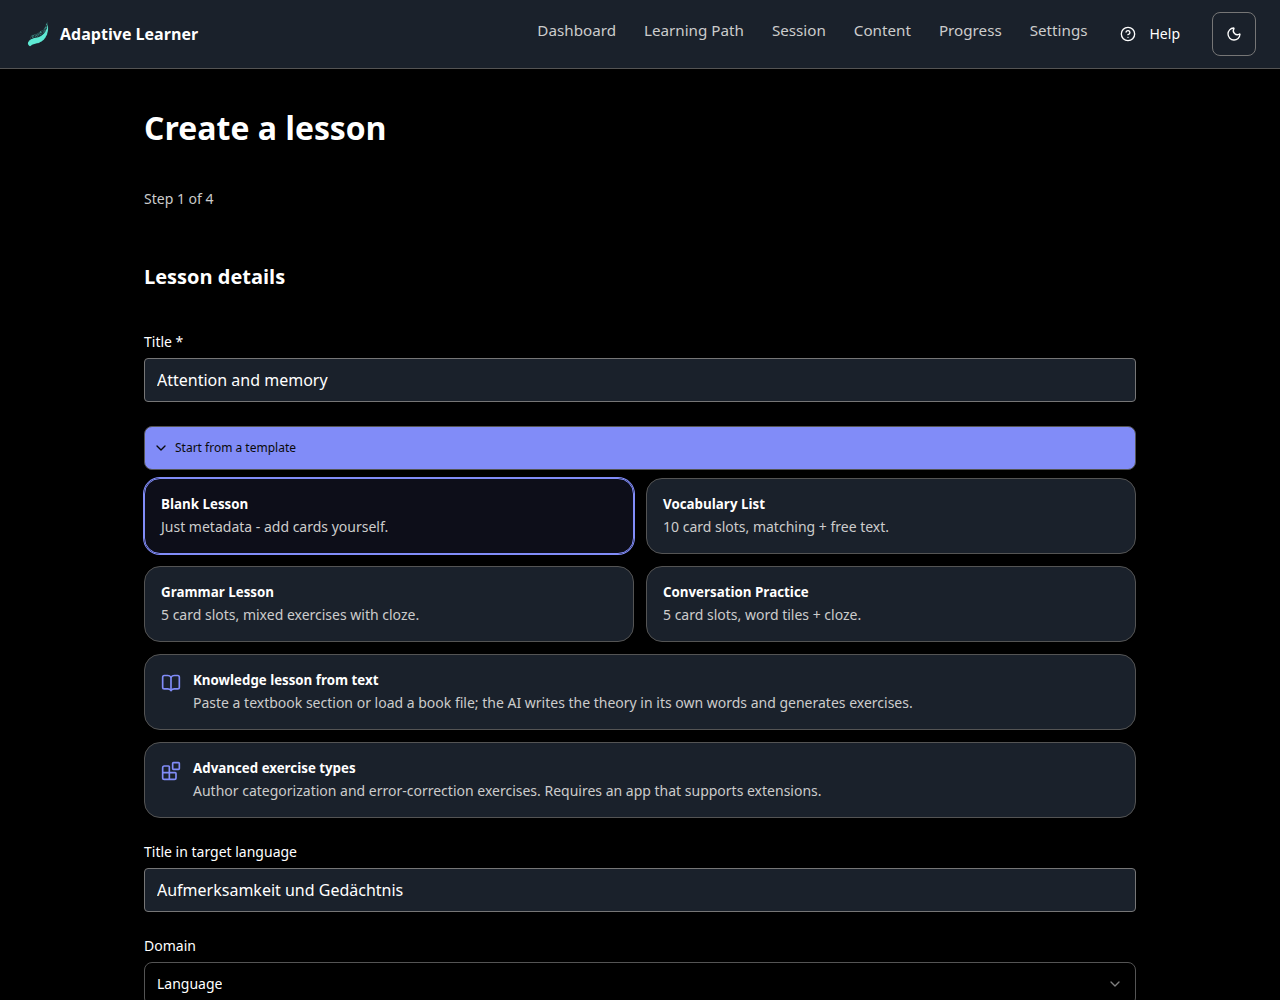
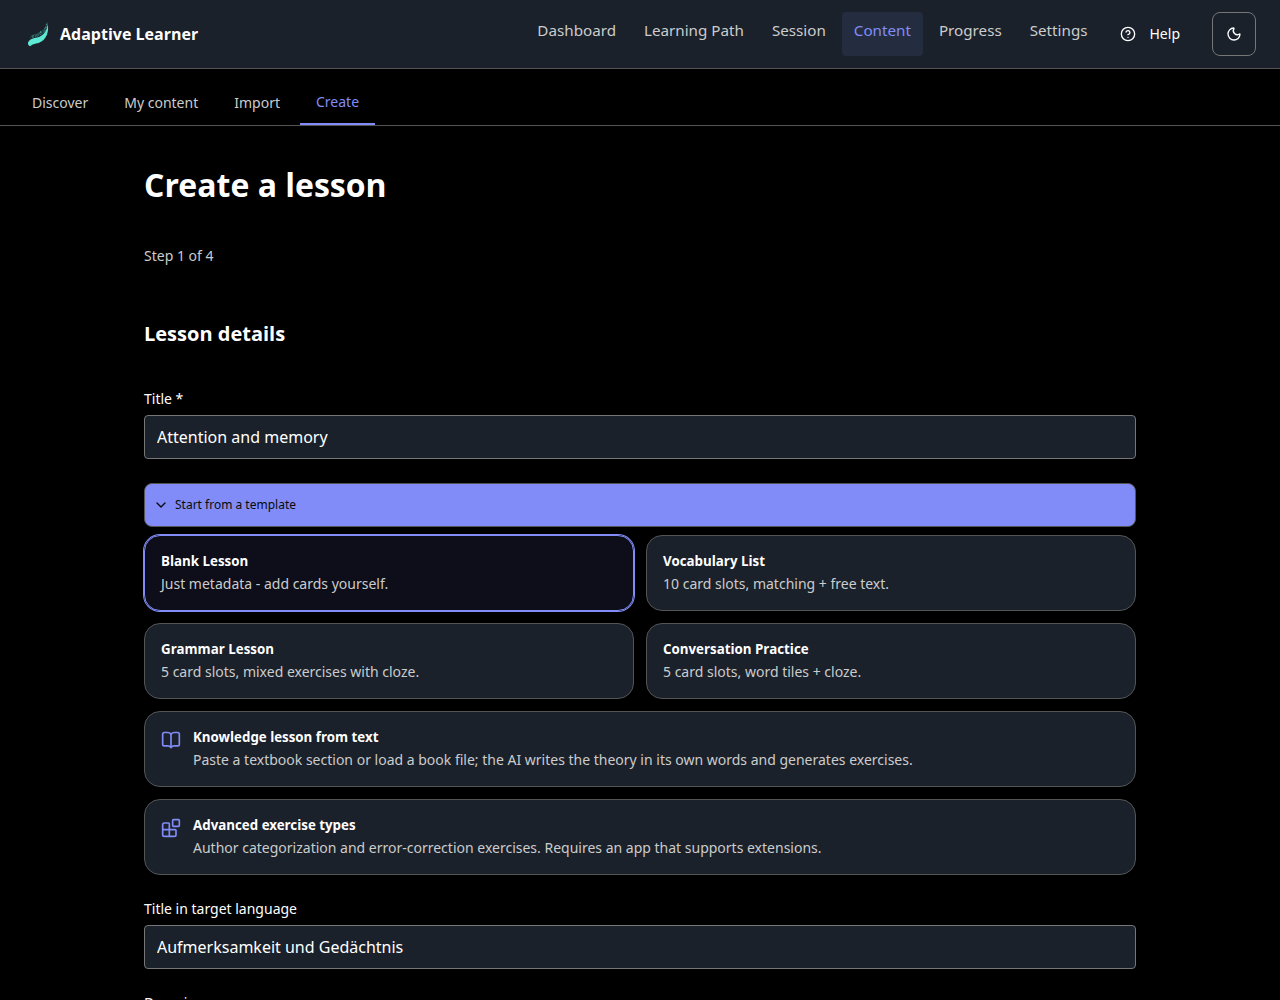
docs(blog): refresh the create-a-lesson screenshots and what they show (EN + DE)
The screenshots were regenerated with adaptive-learner at the 0.26.0 pin
after its blog spec derives the picker count from EXTENSION_WIZARD_TYPES
(adaptive-learner#3121), and every one was reviewed against its caption
before copying. The picker now shows all ten types. The shots also
surfaced app changes the article did not describe: the Content area's
sub-navigation (the creator is its Create tab), the book-text step's
exercise-type selection and optional generated explanations, and the
optional explanation field in every exercise editor, which made "three
fields, no more" false. Captions and prose follow what the pictures show,
with German UI labels taken from the app's de.json. The German assets were
still July's and are replaced as well; the German lead used "du" once
where the article says "Sie" everywhere else.

diff --git a/docs/blog/de/create-a-lesson-in-the-app.md b/docs/blog/de/create-a-lesson-in-the-app.md
@@ -7,7 +7,7 @@ tags: [tutorial, authoring, adaptive-learner, walkthrough]
 
 # Eine Lektion in der App erstellen, Schritt für Schritt
 
-*Eine praktische Tour durch den Lektions-Editor in adaptive-learner: die klassischen vier Assistenten-Schritte vom leeren Formular bis zur gespeicherten, schema-gültigen Lektion, der Buch-Pfad, der aus eingefügten oder hochgeladenen Lehrbuchkapiteln Wissens-Lektionen macht, der Erweiterungs-Pfad, der die sechs fortgeschrittenen Übungstypen ohne JSON autorierbar macht, und der Bearbeitungsmodus des Assistenten. Jeder Screenshot in dieser Anleitung stammt aus der laufenden App, aufgenommen während des exakt beschriebenen Ablaufs. Die App wird aktiv weiterentwickelt, ein Detail kann sich also bis zu deiner Lektüre verschoben haben: der Ablauf selbst bleibt der verlässliche Leitfaden.*
+*Eine praktische Tour durch den Lektions-Editor in adaptive-learner: die klassischen vier Assistenten-Schritte vom leeren Formular bis zur gespeicherten, schema-gültigen Lektion, der Buch-Pfad, der aus eingefügten oder hochgeladenen Lehrbuchkapiteln Wissens-Lektionen macht, der Erweiterungs-Pfad, der die sechs fortgeschrittenen Übungstypen ohne JSON autorierbar macht, und der Bearbeitungsmodus des Assistenten. Jeder Screenshot in dieser Anleitung stammt aus der laufenden App, aufgenommen während des exakt beschriebenen Ablaufs. Die App wird aktiv weiterentwickelt, ein Detail kann sich also bis zu Ihrer Lektüre verschoben haben: der Ablauf selbst bleibt der verlässliche Leitfaden.*
 
 `adaptive-learner` · für Lehrende und Content-Autoren · Teil 3 der Serie
 
@@ -15,7 +15,7 @@ Der [vorige Artikel](one-source-many-outputs.md) machte ein Versprechen: Sie mü
 
 ## Wo der Editor lebt
 
-Der Editor ist eine Seite in der App: Öffnen Sie `/create-lesson` (oder folgen Sie der Erstellen-Aktion im Inhalte-Bereich). Auf dem klassischen Pfad ist es ein vierstufiger Assistent, und die Schritte spiegeln genau wider, was eine Lektion im kanonischen Schema *ist*: Metadaten, Karten, Übungen und eine abschließende Überprüfung. Sie können in jedem Schritt zurückgehen; nichts wird gespeichert, bevor Sie es sagen. Drei weitere Türen führen in denselben Assistenten, und wir gehen jede nach dem klassischen Pfad durch: einen **Buch-Text-Pfad**, der aus einem eingefügten Lehrbuchkapitel eine Wissens-Lektion baut, einen **Erweiterungs-Pfad** für die fortgeschrittenen Übungstypen und einen **Bearbeitungsmodus**, der jede eigene Lektion wieder öffnet.
+Der Editor ist eine Seite in der App: Öffnen Sie `/create-lesson` oder den Reiter **Erstellen** im Inhalte-Bereich. Auf dem klassischen Pfad ist es ein vierstufiger Assistent, und die Schritte spiegeln genau wider, was eine Lektion im kanonischen Schema *ist*: Metadaten, Karten, Übungen und eine abschließende Überprüfung. Sie können in jedem Schritt zurückgehen; nichts wird gespeichert, bevor Sie es sagen. Drei weitere Türen führen in denselben Assistenten, und wir gehen jede nach dem klassischen Pfad durch: einen **Buch-Text-Pfad**, der aus einem eingefügten Lehrbuchkapitel eine Wissens-Lektion baut, einen **Erweiterungs-Pfad** für die fortgeschrittenen Übungstypen und einen **Bearbeitungsmodus**, der jede eigene Lektion wieder öffnet.
 
 ## Schritt 1: Lektionsdetails
 
@@ -99,9 +99,11 @@ Die vier Schritte oben setzen Vokabelkarten voraus. Der Assistent hat einen zwei
 
 ![Schritt 1 mit der Vorlagen-Reihe, einschließlich der neuen Karte "Wissens-Lektion aus Text"](assets/create-lesson/s5-template-book.png)
 
-Sie zu wählen schaltet den Assistenten auf einen kürzeren dreistufigen Ablauf um: Metadaten, Buchtext, Überprüfung. Der mittlere Schritt ist, wo die Arbeit passiert, und er nimmt den Text inzwischen auf zwei Wegen an. Der erste ist der ursprüngliche: Sie fügen **einen Abschnitt eines Lehrbuchs** ein (ein Kapitel ist die richtige Größe), fügen optional die Buchangabe hinzu und drücken **Theorie + Übungen generieren**:
+Sie zu wählen schaltet den Assistenten auf einen kürzeren dreistufigen Ablauf um: Metadaten, Buchtext, Überprüfung. Der mittlere Schritt ist, wo die Arbeit passiert, und er nimmt den Text inzwischen auf zwei Wegen an. Der erste ist der ursprüngliche: Sie fügen **einen Abschnitt eines Lehrbuchs** ein (ein Kapitel ist die richtige Größe), fügen optional die Buchangabe hinzu und drücken **Theorie + Übungen generieren**.
 
-![Der Buch-Text-Schritt: eingefügtes Kapitel, der Rechte-Hinweis, die Buchangabe-Felder und die Generieren-Schaltfläche](assets/create-lesson/s6-book-text.png)
+Über dem Textfeld legen Sie fest, was die KI bauen darf. Die fünf Standardtypen sind vorausgewählt; vier Erweiterungstypen, die allein aus Text entstehen können (Leseverständnis, Benotetes Quiz, Kategorisierung, Fehlerkorrektur), lassen sich dazuwählen; Bildauswahl, Bildbeschreibung und Diktat sind ausgegraut, weil sich Bilder und Audio nicht aus Text erzeugen lassen, und Sie ergänzen sie später im Editor. **Erklärungen generieren** ist optional: Es ergänzt jede Übung um eine Regel, eine Wort-für-Wort-Übersetzung und weitere Beispiele, die die lernende Person nach ihrer Antwort sieht, bei etwa einem Drittel bis der Hälfte mehr KI-Ausgabe pro Übung.
+
+![Der Buch-Text-Schritt: die zu erzeugenden Übungstypen, die Erklärungs-Option, das eingefügte Kapitel mit dem Rechte-Hinweis und die Buchangabe](assets/create-lesson/s6-book-text.png)
 
 Der zweite Weg spart die Kopierrunden ganz: **Aus Datei laden** liest eine komplette Buchdatei (EPUB, DOCX, reiner Text oder Markdown), erkennt ihre Abschnitte aus der Dokumentstruktur und zeigt sie als Auswahlliste. Abschnitte, die nach Vor- oder Nachspann aussehen (ein Vorwort, ein Glossar, ein Index), kommen abgewählt an; alles andere ist ausgewählt. Wählen Sie die gewünschten Kapitel, und ein Klick generiert **eine Lektion pro gewähltem Abschnitt** in einem einzigen Batch-Lauf:
 
@@ -125,7 +127,7 @@ Die sechs Kern-Typen decken das alltägliche Einüben ab. Manche Übungsformen p
 
 Ihn zu wählen schaltet auf einen kürzeren dreistufigen Ablauf um: Metadaten, Übungen, Überprüfung. Kein Karten-Schritt, weil Erweiterungsübungen ihren eigenen Inhalt tragen, statt auf Karten zurückzugreifen. **Erweiterungsübung hinzufügen** öffnet die Typ-Auswahl, und jeder Typ, den der Assistent unterstützt, ist da, zehn mit Stand September 2026:
 
-![Die Erweiterungstyp-Auswahl (Screenshot vom Juli mit den sechs Typen von damals; heute bietet die Auswahl zehn)](assets/create-lesson/e2-type-picker.png)
+![Die Erweiterungstyp-Auswahl mit allen zehn Typen, die der Assistent unterstützt](assets/create-lesson/e2-type-picker.png)
 
 Die Auswahl zeigt die Typen unter ihren deutschen Namen. Darunter liegt jeweils ein namensraum-gebundener `ext:`-Typ, den die Lektion in `requires_extensions` deklariert, sodass ein Konsument ohne diese Erweiterung die Lektion laut ablehnt, statt sie falsch darzustellen. Wofür jeder da ist, mit seiner technischen Id und einem kleinen Beispiel aus einem Französisch-Kurs für Deutschsprachige:
 
@@ -148,7 +150,7 @@ Der Diktat-Editor zeigt, wie ein in sich geschlossenes Erweiterungs-Payload auss
 
 ![Der Diktat-Editor: Anweisung, das Audio-Feld mit Hochladen und Pfad, und zwei akzeptierte Transkriptionen](assets/create-lesson/e3-dictation-fields.png)
 
-Drei Felder, nicht mehr: die Anweisung, die die lernende Person sieht, das **Audio** und die Liste der **akzeptierten Transkriptionen**. Die Akzeptanzliste ist der Grund, warum Diktat auf die richtige Weise nachsichtig ist: Sie legen im Voraus fest, dass *"a coffee please"* genauso zählt wie *"A coffee, please."*, sodass der Bewerter nicht raten muss, wie streng er mit Groß-/Kleinschreibung und Zeichensetzung sein soll.
+Drei Felder machen die Übung aus: die Anweisung, die die lernende Person sieht, das **Audio** und die Liste der **akzeptierten Transkriptionen**. Ein viertes, optionales, **Erklärung nach der Antwort**, steht in jedem Übungs-Editor des Assistenten, bei Kern- wie Erweiterungstypen: Markdown, das die lernende Person sieht, sobald sie geantwortet hat, richtig oder falsch. Die Akzeptanzliste ist der Grund, warum Diktat auf die richtige Weise nachsichtig ist: Sie legen im Voraus fest, dass *"a coffee please"* genauso zählt wie *"A coffee, please."*, sodass der Bewerter nicht raten muss, wie streng er mit Groß-/Kleinschreibung und Zeichensetzung sein soll.
 
 Das Audio-Feld nimmt den Clip auf zwei Wegen. **Audio hochladen** legt ihn selbstständig bei der Lektion ab, eingebettet als Data-URI, was der schnelle Weg für eine lokal gehaltene Lektion ist. Oder Sie tippen einen relativen Pfad zu einer Datei im `assets`-Ordner des Sets, was ein veröffentlichtes Repo-Set möchte, weil ein eingebetteter Clip im Lektions-JSON mitreist und es aufbläht.
 

diff --git a/docs/blog/create-a-lesson-in-the-app.md b/docs/blog/create-a-lesson-in-the-app.md
@@ -15,7 +15,7 @@ The [previous article](one-source-many-outputs.md) made a promise: you don't hav
 
 ## Where the creator lives
 
-The creator is a page in the app: open `/create-lesson` (or follow the create action from the Content area). On the classic path it is a four-step wizard, and the steps mirror exactly what a lesson *is* in the canonical schema: metadata, cards, exercises, and a final review. You can go back at any step; nothing is saved until you say so. Three more doors lead into the same wizard, and we will walk through each after the classic path: a **book-text path** that builds a knowledge lesson from a pasted textbook chapter, an **extension path** for the advanced exercise types, and an **edit mode** that reopens any lesson you own.
+The creator is a page in the app: open `/create-lesson`, or the **Create** tab in the Content area. On the classic path it is a four-step wizard, and the steps mirror exactly what a lesson *is* in the canonical schema: metadata, cards, exercises, and a final review. You can go back at any step; nothing is saved until you say so. Three more doors lead into the same wizard, and we will walk through each after the classic path: a **book-text path** that builds a knowledge lesson from a pasted textbook chapter, an **extension path** for the advanced exercise types, and an **edit mode** that reopens any lesson you own.
 
 ## Step 1: Lesson details
 
@@ -99,9 +99,11 @@ The four steps above assume vocabulary cards. The wizard has a second way in, bu
 
 ![Step 1 with the template row, including the new "Knowledge lesson from text" card](assets/create-lesson/s5-template-book.png)
 
-Choosing it switches the wizard to a shorter three-step flow: metadata, book text, review. The middle step is where the work happens, and it now takes the text two ways. The first is the original one: paste **one section of a textbook** (a chapter is the right size), optionally add the book reference, and press **Generate theory + exercises**:
+Choosing it switches the wizard to a shorter three-step flow: metadata, book text, review. The middle step is where the work happens, and it now takes the text two ways. The first is the original one: paste **one section of a textbook** (a chapter is the right size), optionally add the book reference, and press **Generate theory + exercises**.
 
-![The book-text step: pasted chapter, the rights hint, book reference fields, and the generate button](assets/create-lesson/s6-book-text.png)
+Above the text field you choose what the AI may build. The five standard types are preselected; four extension types that work from text alone (reading comprehension, graded quiz, categorization, error correction) are there to opt into; picture choice, image description and dictation are greyed out, because images and audio cannot be generated from text, and you add those later in the editor. **Generate explanations** is optional: it adds a rule, a word-for-word gloss and further examples to every exercise, shown to the learner after they answer, at roughly a third to half more AI output per exercise.
+
+![The book-text step: the exercise types to generate, the explanations option, the pasted chapter with the rights hint, and the book reference](assets/create-lesson/s6-book-text.png)
 
 The second way skips the copy-paste round-trips entirely: **Load from file** reads a whole book file (EPUB, DOCX, plain text or Markdown), detects its sections from the document structure, and shows them as a checklist. Sections that look like front or back matter (a preface, a glossary, an index) arrive unchecked; everything else is selected. Pick the chapters you want and one click generates **one lesson per selected section** in a single batch run:
 
@@ -125,7 +127,7 @@ The six core types cover the everyday drill. Some exercise shapes do not fit any
 
 Choosing it switches to a shorter three-step flow: metadata, exercises, review. No card step, because extension exercises carry their own content rather than drawing on cards. **Add extension exercise** opens the type picker, and every type the wizard supports is there, ten as of September 2026:
 
-![The extension type picker (July screenshot with the six types of that time; the picker offers ten today)](assets/create-lesson/e2-type-picker.png)
+![The extension type picker with all ten types the wizard supports](assets/create-lesson/e2-type-picker.png)
 
 The picker shows the technical type ids, which is honest about what you are authoring: each is a namespaced `ext:` type that the lesson will declare in `requires_extensions`, so a consumer without that extension refuses the lesson loudly instead of mis-rendering it. Here is what each one is for, with a small example from a French course for German speakers:
 
@@ -148,7 +150,7 @@ Dictation's editor shows what a self-contained extension payload looks like:
 
 ![The dictation editor: instruction, the audio field with upload and path, and two accepted transcriptions](assets/create-lesson/e3-dictation-fields.png)
 
-Three fields, no more: the instruction the learner sees, the **audio**, and the list of **accepted transcriptions**. The accepted list is why dictation is forgiving in the right way: you decide up front that *"a coffee please"* counts as well as *"A coffee, please."*, so the grader does not have to guess how strict to be about capitals and punctuation.
+Three fields that make the exercise: the instruction the learner sees, the **audio**, and the list of **accepted transcriptions**. A fourth, optional one, **Explanation after the answer**, sits in every exercise editor of the creator, core and extension alike: Markdown the learner sees once they have answered, right or wrong. The accepted list is why dictation is forgiving in the right way: you decide up front that *"a coffee please"* counts as well as *"A coffee, please."*, so the grader does not have to guess how strict to be about capitals and punctuation.
 
 The audio field takes the clip two ways. **Upload audio** stores it self-contained with the lesson, inlined as a data URI, which is the quick path for a lesson you keep locally. Or you type a relative path to a file in the set's `assets` folder, which is what a published repo set wants, because an inlined clip travels inside the lesson JSON and grows it.
 
